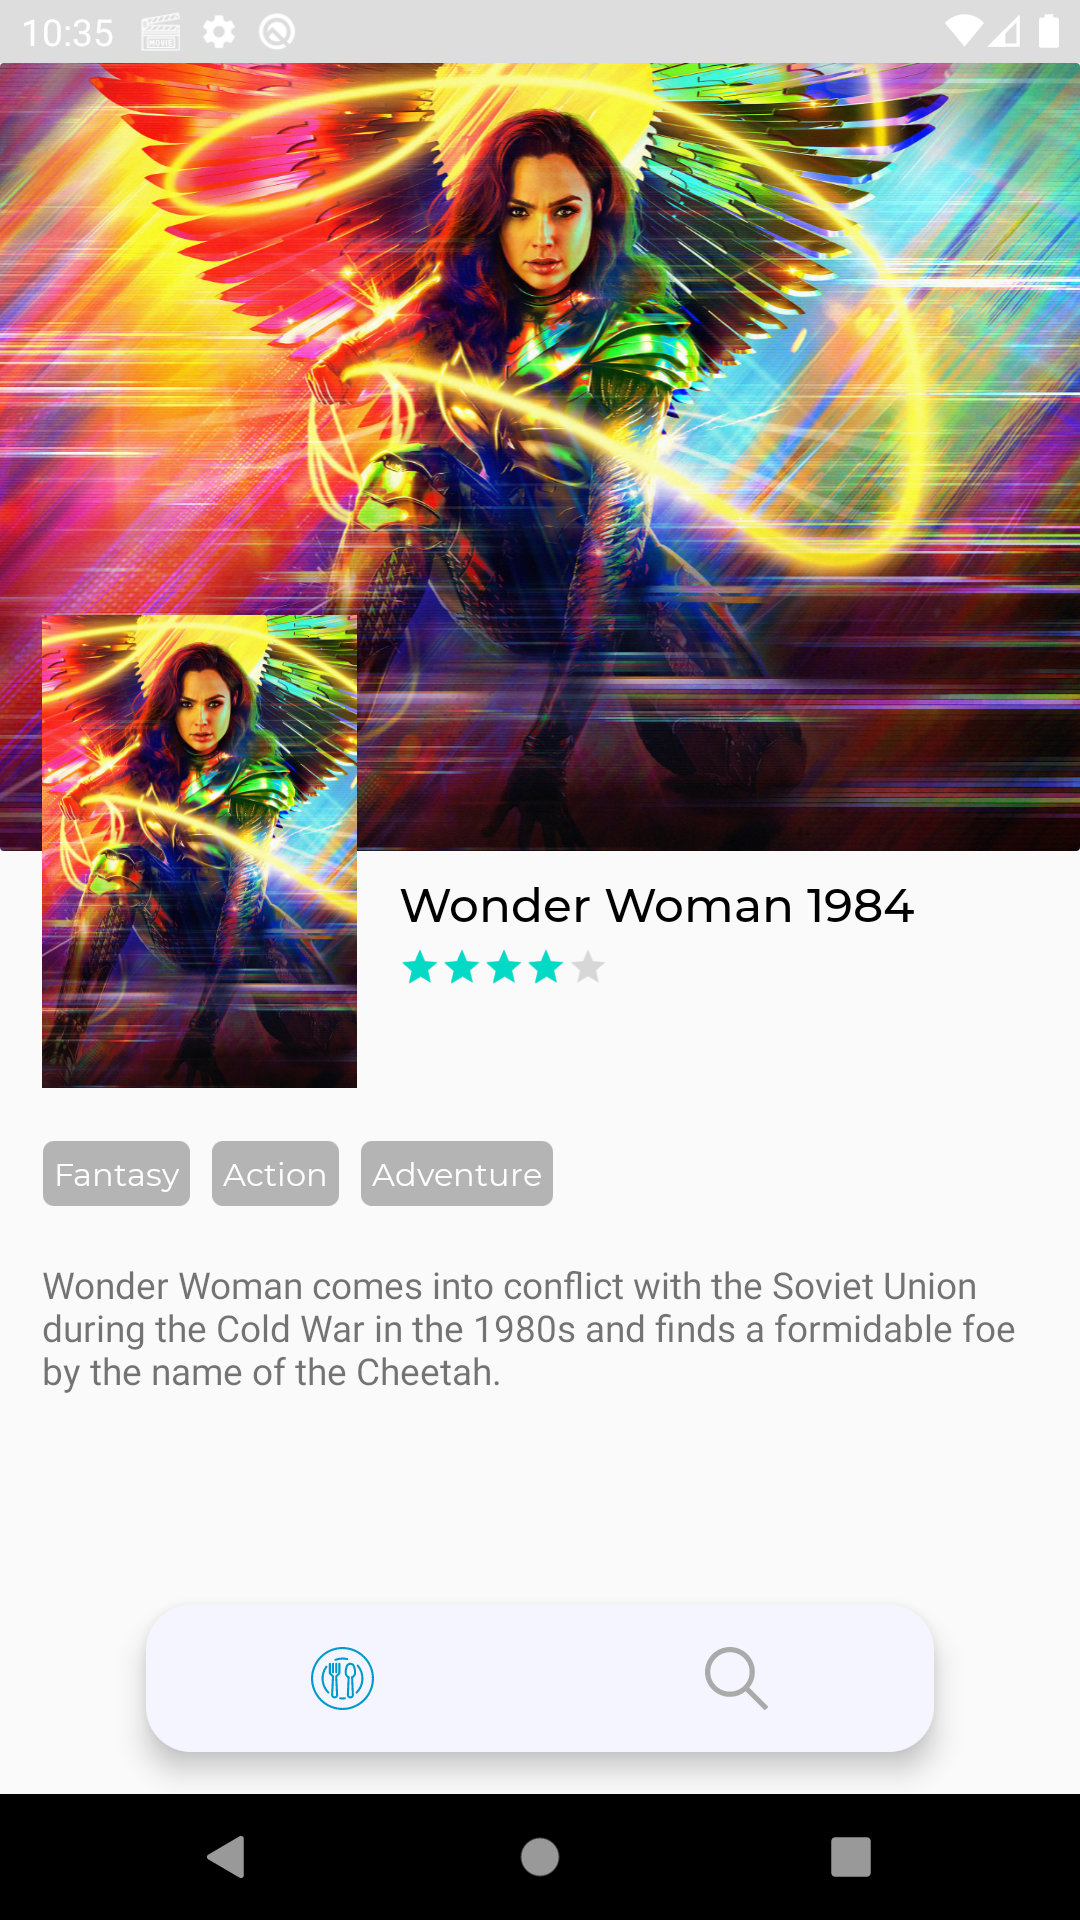
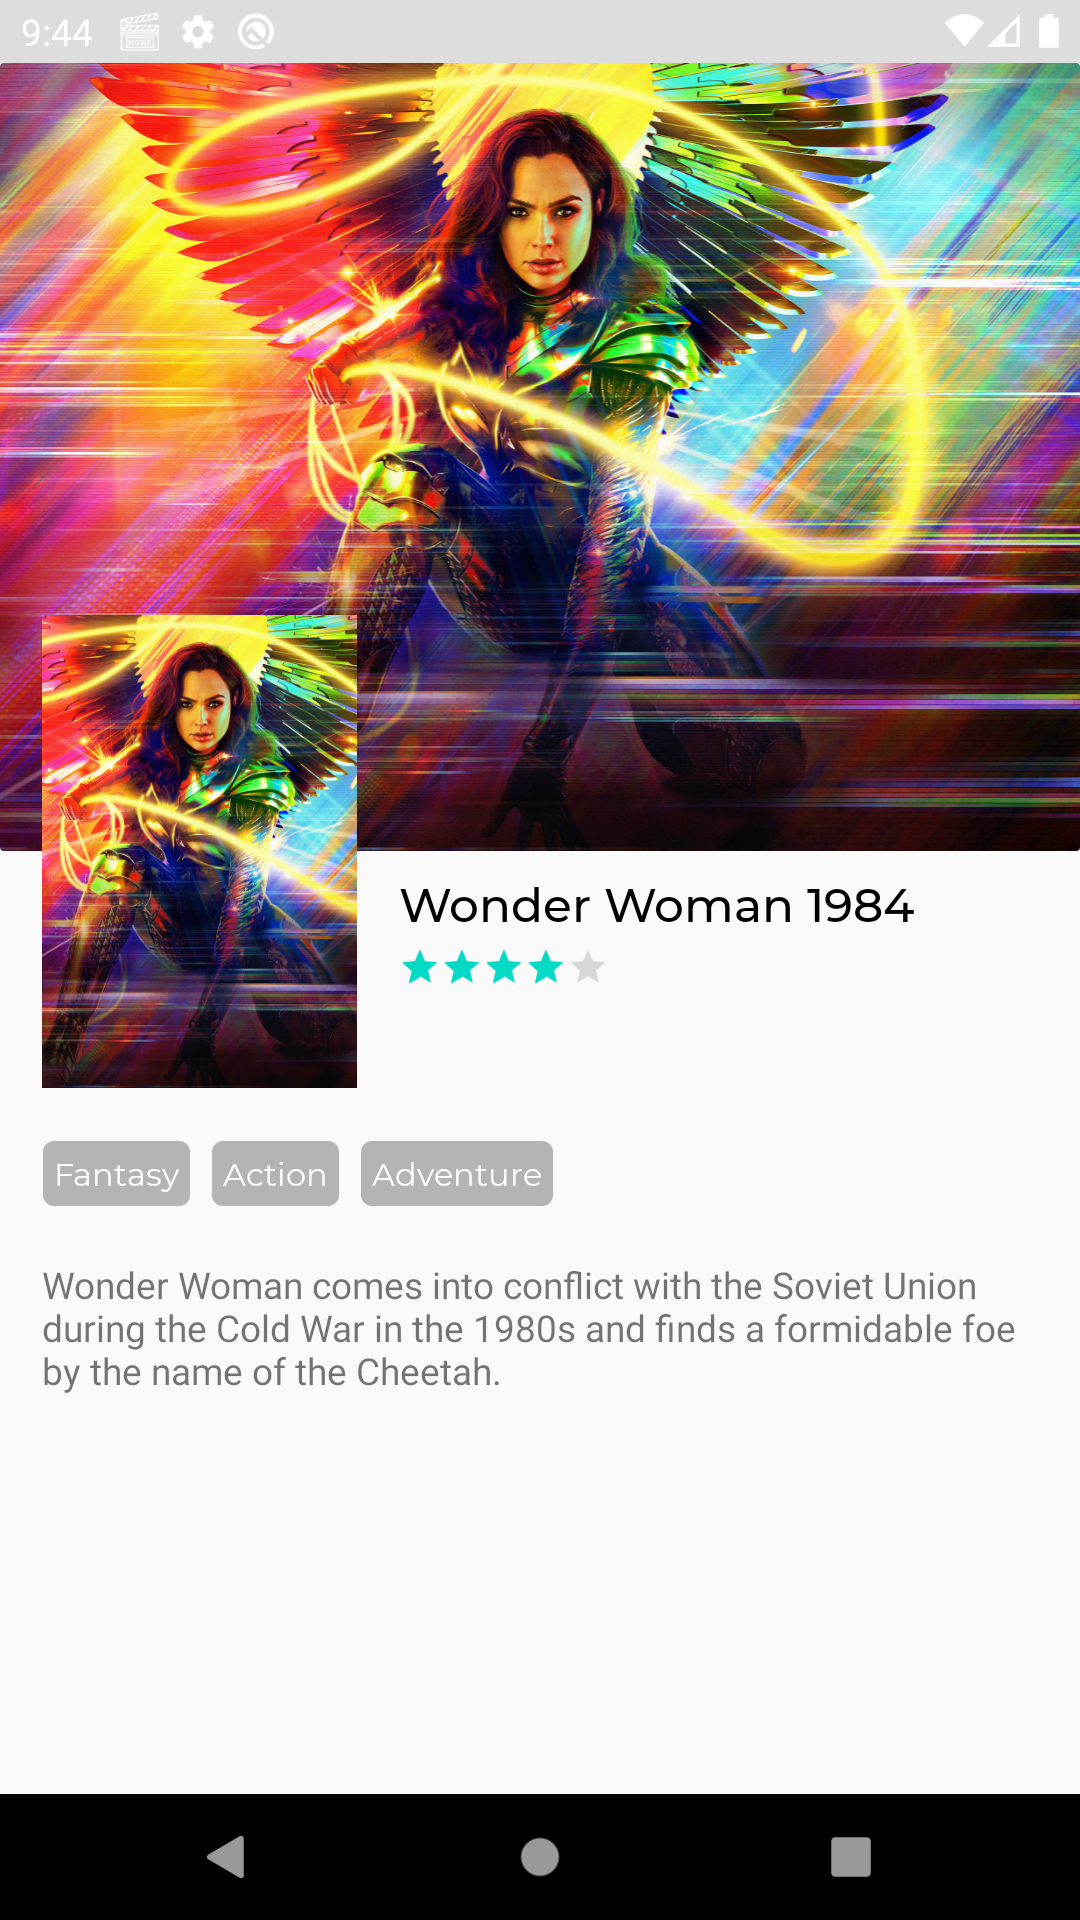
Add navController destinationChangedListener in MainActivity

diff --git a/app/src/main/java/com/android/moviedb/ui/main/MainActivity.kt b/app/src/main/java/com/android/moviedb/ui/main/MainActivity.kt
@@ -2,11 +2,13 @@ package com.android.moviedb.ui.main
 
 import android.os.Bundle
 import android.view.LayoutInflater
+import androidx.navigation.NavController
 import androidx.navigation.findNavController
 import androidx.navigation.ui.setupWithNavController
 import com.android.base.BaseActivity
 import com.android.moviedb.R
 import com.android.moviedb.databinding.ActivityMainBinding
+import com.caner.common.ext.visible
 import dagger.hilt.android.AndroidEntryPoint
 
 @AndroidEntryPoint
@@ -14,12 +16,29 @@ class MainActivity : BaseActivity<ActivityMainBinding>() {
 
     private val navController by lazy { findNavController(R.id.mainNavHostFragment) }
 
+    private val listener = NavController.OnDestinationChangedListener { _, destination, _ ->
+        when (destination.id) {
+            R.id.movieDetailFragment -> binding.bottomNavigation.visible(false)
+            else -> binding.bottomNavigation.visible(true)
+        }
+    }
+
     override fun initView(savedInstanceState: Bundle?) {
         setupViews()
     }
 
     private fun setupViews() {
         binding.bottomNavigation.setupWithNavController(navController)
+    }
+
+    override fun onResume() {
+        super.onResume()
+        navController.addOnDestinationChangedListener(listener)
+    }
+
+    override fun onPause() {
+        super.onPause()
+        navController.removeOnDestinationChangedListener(listener)
     }
 
     override val bindLayout: (LayoutInflater) -> ActivityMainBinding
